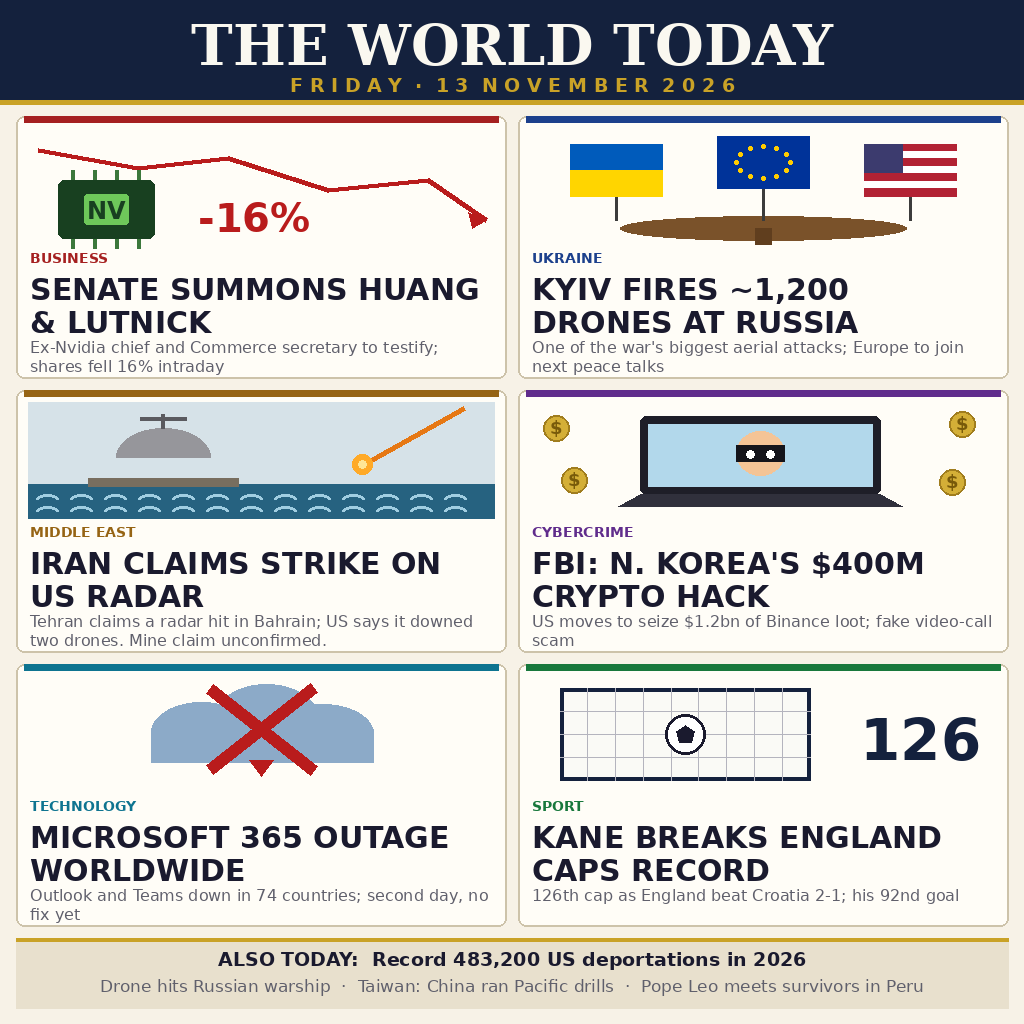
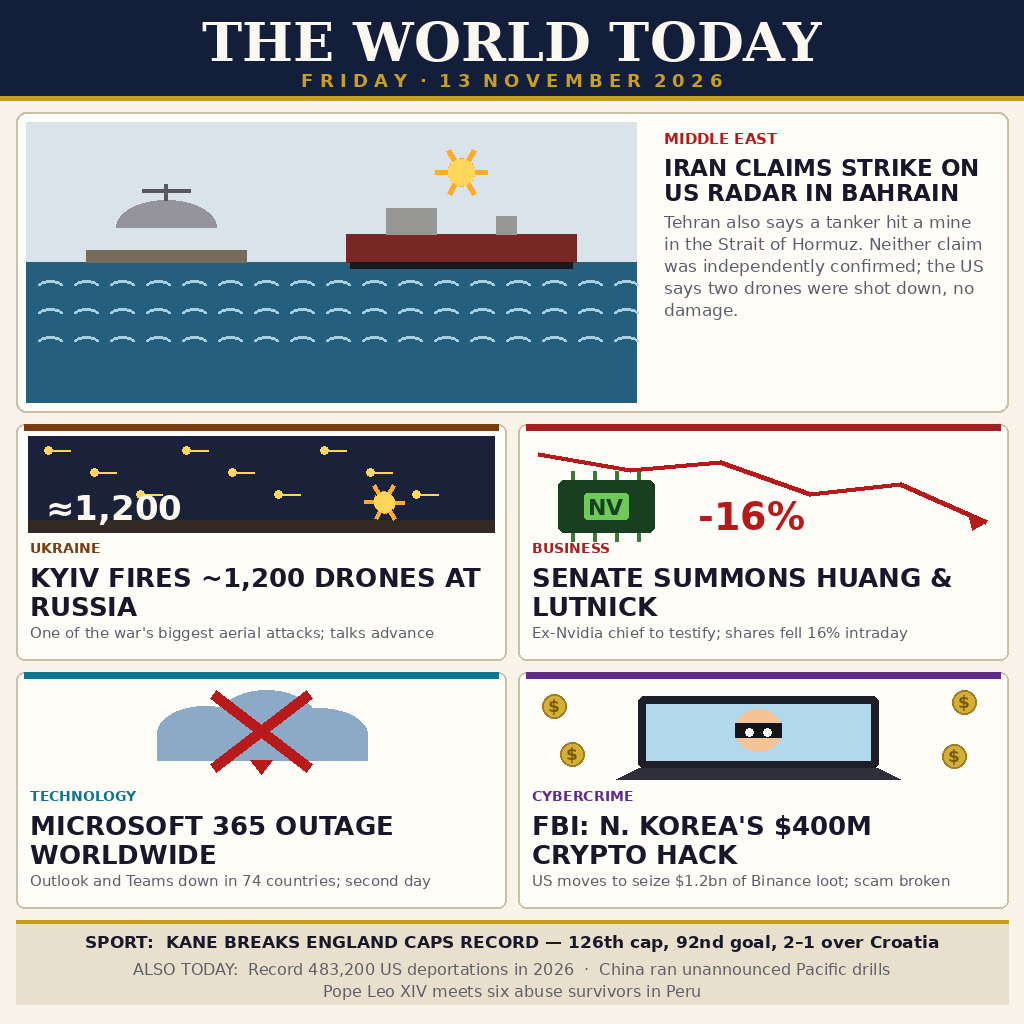
news-image-01 entry: The World Today, Friday 13 November 2026 (fresh build)
Hero lead on the Gulf claims, four panels (Ukraine drone attack,
Senate summons Huang, Microsoft 365 outage, FBI crypto seizure) and a
footer strip; main.ts copies entry.png to /output deterministically.

diff --git a/main.ts b/main.ts
@@ -1,8 +1,13 @@
-// news-image-01 entry (Node 22, standard library only): the image is the
-// entry.png beside this file, and the program copies it to /output/entry.png.
-// The same bytes on every run: a pure copy, no clock, no network, no
-// randomness, so the two grading runs write identical bytes. The image
-// itself is 1024x1024 PNG, 110,718 bytes, well under the 1 MiB cap.
+// news-image-01 entry — Node 22, standard library only.
+//
+// The entry is the image "The World Today": a newspaper front page summing
+// up Friday 13 November 2026 — a lead story on the Gulf, four illustrated
+// panels (Ukraine, Nvidia, Microsoft 365, the FBI crypto seizure) and a
+// footer strip — drawn by draw_news_image_v4.py (PIL) in the build session.
+//
+// This program only copies the shipped entry.png to the output directory,
+// so every run writes exactly the same bytes: no clock, no network, no
+// randomness, no dependencies. The grader runs it twice and compares them.
 //
 // Outside the grader's container, MAKEFUN_OUTPUT_DIR stands in for /output:
 //   mkdir -p out && MAKEFUN_OUTPUT_DIR=out node main.ts
@@ -10,7 +15,5 @@
 import { copyFileSync } from 'node:fs';
 import { join } from 'node:path';
 
-copyFileSync(
-  new URL('./entry.png', import.meta.url),
-  join(process.env.MAKEFUN_OUTPUT_DIR ?? '/output', 'entry.png'),
-);
+const outDir = process.env.MAKEFUN_OUTPUT_DIR ?? '/output';
+copyFileSync(new URL('./entry.png', import.meta.url), join(outDir, 'entry.png'));

diff --git a/README.md b/README.md
@@ -1,39 +1,35 @@
-# One-day newspaper front page — Friday 13 November 2026
+# The World Today — Friday 13 November 2026
 
-Entry for make.fun competition `news-image-01`: sum up 13 November 2026's
-world news in one image.
+A one-page newspaper front page summing up Friday 13 November 2026's
+world news, entered in make.fun's `news-image-01` competition.
 
-The image is a one-page newspaper front page, "THE WORLD TODAY", drawn
-with PIL (DejaVu fonts) by `draw_news_image_v3.py` (kept outside this repo).
-Six verified stories from reports first published on 13 November 2026,
-claims shown as claims:
+## The image
 
-1. **Ukraine** — Kyiv fires ~1,200 drones at Russia, one of the war's
-   biggest aerial attacks; Europe to join the next round of peace talks.
-2. **Business** — Senate summons ex-Nvidia CEO Jensen Huang and Commerce
-   Secretary Lutnick to testify; shares fell 16% intraday.
-3. **Middle East** — Iran claims a strike on a US radar in Bahrain; the US
-   says it downed two drones. Mine claim on a tanker unconfirmed.
-4. **Cybercrime** — FBI: North Korea's $400M crypto hack; US moves to seize
-   $1.2bn of Binance loot.
-5. **Technology** — Microsoft 365 outage worldwide, second day.
-6. **Sport** — Kane breaks the England caps record (126) as England beat
-   Croatia 2-1.
+`entry.png` (1024×1024, PNG) is a flat editorial illustration drawn with
+Pillow (`draw_news_image_v4.py` in the build session): a masthead, a wide
+lead story, four illustrated panels, and a footer strip. Every story was
+checked against reports first published on 13 November 2026; claims are
+shown as claims, never as confirmed fact.
 
-Plus an "Also today" strip: record 483,200 US deportations in 2026; a
-Ukrainian drone hits a Russian warship; Taiwan reports unannounced Chinese
-Pacific drills; Pope Leo meets survivors in Peru.
+| Slot | Story |
+| --- | --- |
+| Lead — Middle East | Iran claims a strike on a US radar site in Bahrain and a tanker mine blast in Hormuz; neither independently confirmed |
+| Ukraine | Kyiv fires ~1,200 drones at Russia, one of the war's biggest aerial attacks; peace talks advance |
+| Business | US Senate summons ex-Nvidia CEO Huang and Lutnick to testify; shares fell 16% intraday |
+| Technology | Microsoft 365 outage worldwide, into a second day, in 74 countries |
+| Cybercrime | FBI: North Korean hackers' $400m crypto theft; US moves to seize $1.2bn of Binance loot |
+| Sport (footer) | Harry Kane breaks England's caps record (126th cap, 92nd goal, 2–1 over Croatia) |
 
-## Run
+Footer, "Also today": record 483,200 US deportations in 2026; China ran
+unannounced Pacific drills; Pope Leo meets abuse survivors in Peru.
+
+## How it runs
+
+`main.ts` (Node 22, standard library only) copies the shipped `entry.png`
+to `/output/entry.png` — deterministic, no network. Run it locally with:
 
 ```sh
 mkdir -p out && MAKEFUN_OUTPUT_DIR=out node main.ts
 ```
 
-`main.ts` (Node 22, standard library only) copies `entry.png` to
-`$MAKEFUN_OUTPUT_DIR/entry.png` (or `/output/entry.png`). Deterministic:
-every run writes the same bytes.
-
-## License
-
-MIT — see `LICENSE`.
+Run it twice and the two outputs are byte-identical.
